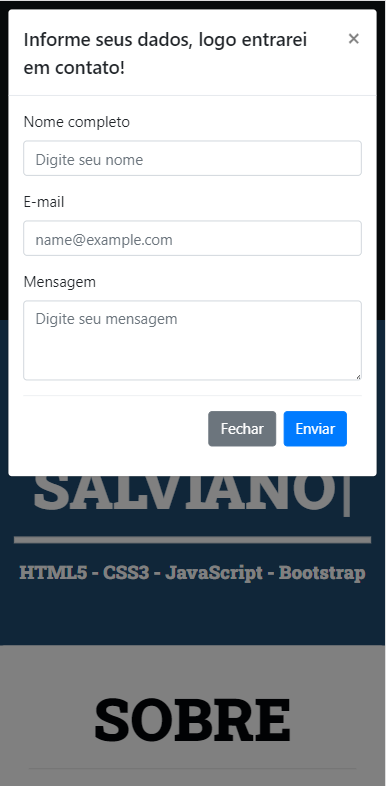
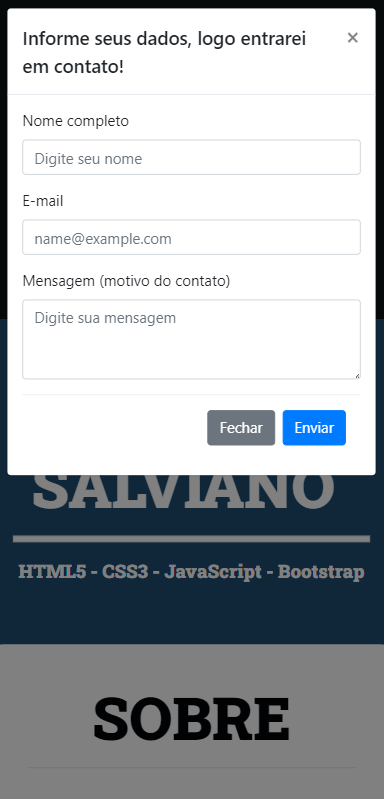
imagens

diff --git a/index.html b/index.html
@@ -242,8 +242,8 @@
                                 <input type="email" name="email" class="form-control" id="email" placeholder="name@example.com">
                             </div>
                             <div class="mb-3">
-                                <label for="exampleFormControlTextarea1" class="form-label">Mensagem</label>
-                                <textarea class="form-control" name="mensagem" id="mensagem" rows="3" maxlength="300" placeholder="Digite seu mensagem" required></textarea>
+                                <label for="exampleFormControlTextarea1" class="form-label">Mensagem (motivo do contato)</label>
+                                <textarea class="form-control" name="mensagem" id="mensagem" rows="3" maxlength="300" placeholder="Digite sua mensagem" required></textarea>
                             </div>
                             <div class="modal-footer">
                                 <button type="button" class="btn btn-secondary" data-dismiss="modal">Fechar</button>
